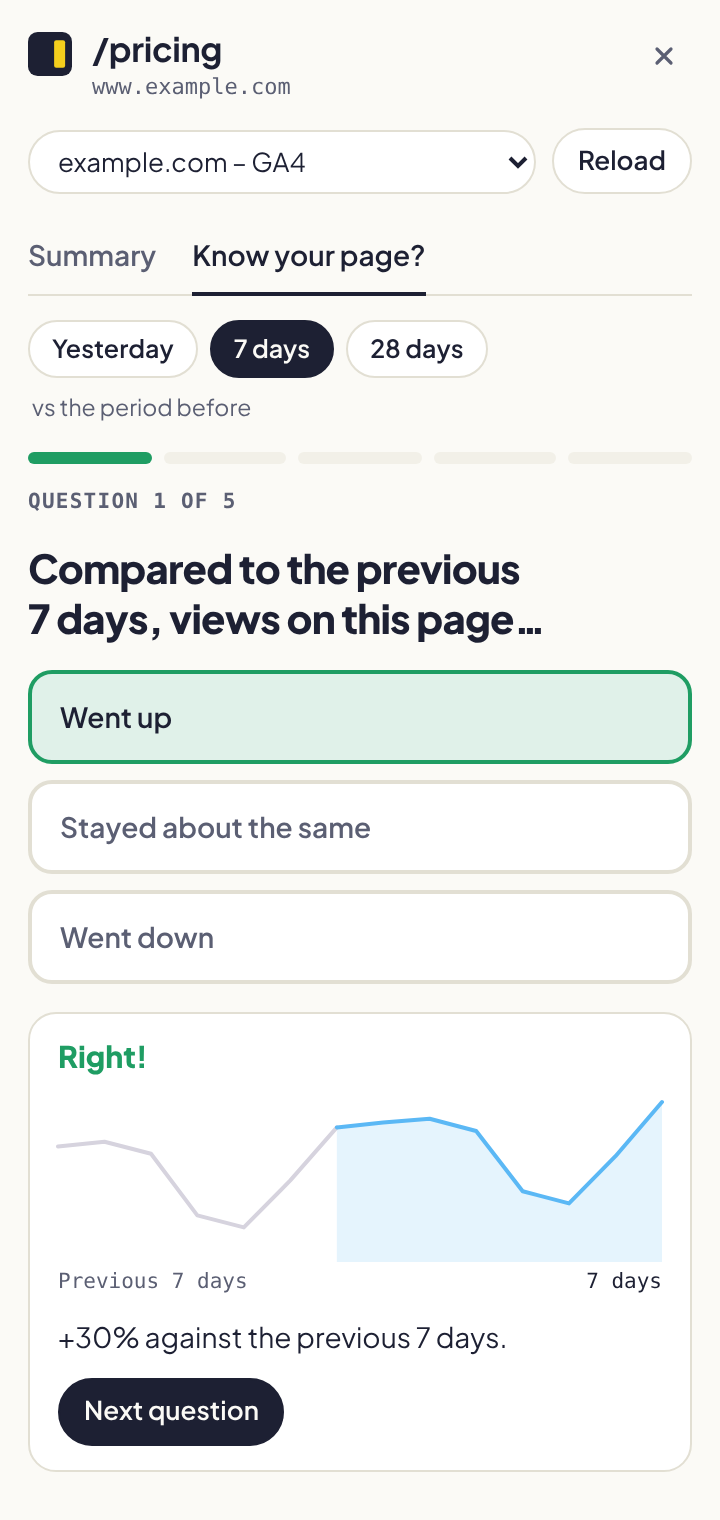
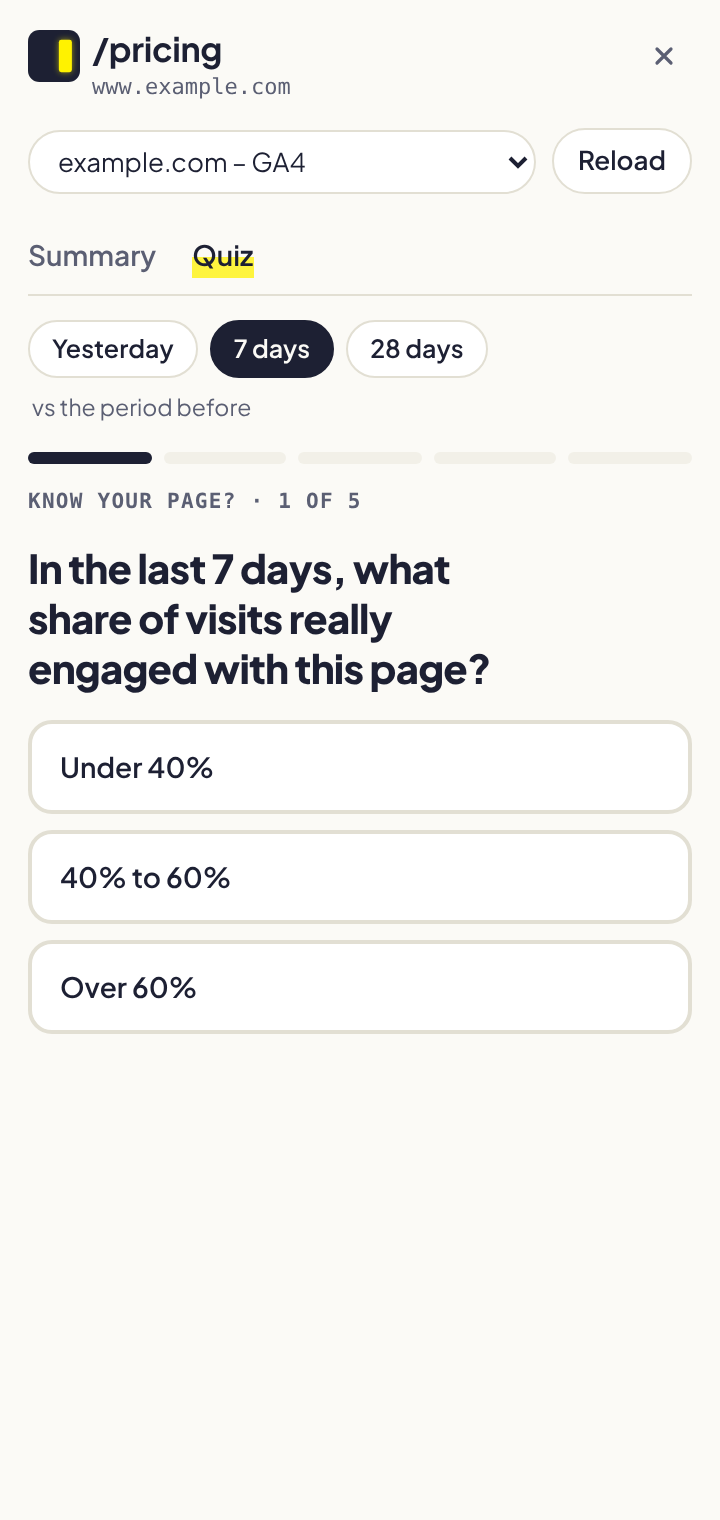
Site: browser hero, livelier quiz, corporate FAQ tone
Claude-Session: https://claude.ai/code/session_015jBukxV2aw35ko9dUCXjxA

diff --git a/index.html b/index.html
@@ -36,15 +36,18 @@
           <span class="line quiet">Your page. Your data.</span>
           <span class="line"><span class="hl c-alive">Side by side.</span></span>
         </h1>
-        <p class="lede">SideNote Analytics brings the page's GA4 data into view—views, users, traffic sources and more, compared with the previous period. All beside the page you're already on.</p>
+        <p class="lede">SideNote Analytics brings the page's GA4 data into view—sessions, users, traffic sources and more, compared with the previous period. All beside the page you're already on.</p>
         <div class="cta">
           <span class="btn primary is-soon" aria-disabled="true">Coming soon to the Chrome Web Store</span>
           <a class="btn ghost" href="#how">See how it works</a>
         </div>
         <p class="note">Free. Read-only. No servers or tracking.</p>
       </div>
-      <figure class="shot tall">
-        <img src="img/panel-summary.png" width="720" height="1780" alt="The SideNote Analytics panel for a pricing page: 2,600 views, up 30% on the previous 28 days, with a trend line, time per view against the site average, a channel ring and a device ring.">
+      <figure class="browser">
+        <picture>
+          <source srcset="img/hero-browser.webp" type="image/webp">
+          <img src="img/hero-browser.png" width="1812" height="1152" alt="A Chrome window showing a pricing page, with the SideNote Analytics side panel open beside it: 2,600 views on /pricing, up 30% on the previous 28 days.">
+        </picture>
       </figure>
     </div>
   </section>
@@ -82,17 +85,19 @@
     </div>
   </section>
 
-  <section class="block" id="quiz">
+  <section class="block quiz-block" id="quiz">
+    <div class="qmarks" aria-hidden="true"><span>?</span><span>?</span><span>?</span><span>?</span><span>?</span><span>?</span></div>
     <div class="wrap split reverse">
       <div class="copy">
-        <p class="eyebrow">Know your page?</p>
+        <p class="eyebrow">Quiz · Know your page?</p>
         <h2>How well do you know <span class="hl c-good">your own numbers?</span></h2>
         <p class="intro">Do most visitors use mobile or desktop? Is traffic up or down? Does organic search bring more visitors than direct?</p>
         <p class="intro">Test your instincts with five questions based on your page's actual data. Each answer comes with a chart, so you can see how your guess compares.</p>
         <p class="intro">Beat your previous score or challenge a teammate. The shared message never includes your site's name.</p>
+        <div class="qtags"><span class="c-alive">5 questions</span><span class="c-read">Your real data</span><span class="c-change">Beat your score</span></div>
       </div>
       <figure class="shot">
-        <img src="img/panel-quiz.png" width="720" height="1520" alt="A quiz question: compared to the previous 7 days, views on this page went up, stayed about the same or went down. The answer Went up is marked right, with a chart showing +30%.">
+        <img src="img/panel-quiz.png" width="720" height="1520" alt="The Quiz tab: question 1 of 5 asks what share of visits in the last 7 days really engaged with this page, with three answers to choose from.">
       </figure>
     </div>
   </section>
@@ -132,7 +137,7 @@
       <div class="faq">
         <details open>
           <summary>Can SideNote access my Analytics data?</summary>
-          <p>The extension needs read-only access to display your reports. That access is used within your browser. No Analytics data is sent to SideNote's developer or to an external server.</p>
+          <p>The extension needs read-only access to display your reports. That access is used only within your browser. No Analytics data is sent to any external server.</p>
         </details>
         <details>
           <summary>Why does Google ask for permission to see my Analytics data?</summary>
@@ -148,7 +153,7 @@
         </details>
         <details>
           <summary>Why is it free?</summary>
-          <p>SideNote Analytics is a free portfolio project. There are no paid plans, trials or ads.</p>
+          <p>SideNote Analytics runs entirely in your browser, with no servers or infrastructure behind it. That keeps it free to use, with no paid plans, trials or ads.</p>
         </details>
       </div>
     </div>

diff --git a/site.css b/site.css
@@ -75,8 +75,11 @@ nav.links a.go:hover { background: var(--accent); color: var(--accent-ink); }
 @media (max-width: 560px) { nav.links a { padding: 8px 14px; font-size: 15px; } }
 
 .hero { padding-block: 40px 56px; }
-.hero .wrap { display: grid; grid-template-columns: minmax(0, 1fr) 340px; gap: 48px; align-items: center; }
-@media (max-width: 900px) { .hero .wrap { grid-template-columns: minmax(0, 1fr); gap: 40px; } }
+.hero .wrap { display: grid; grid-template-columns: minmax(0, 1fr); gap: 44px; }
+.hero-copy { max-width: 760px; }
+.browser { margin: 0 -18px; }
+.browser img { width: 100%; }
+@media (max-width: 600px) { .browser { margin: 0 -10px; } }
 .hero h1 { margin-top: 18px; font-size: clamp(38px, 5vw, 60px); font-weight: 800; }
 .hero h1 .line { display: block; }
 .hero h1 .quiet { color: var(--ink-soft); font-weight: 600; }
@@ -161,3 +164,17 @@ footer p { color: var(--ink-soft); font-size: 15px; }
 .chips { margin-top: 22px; display: flex; flex-wrap: wrap; gap: 8px; }
 .chips span { padding: 6px 14px; border-radius: 999px; background: var(--paper-2); font-size: 14.5px; font-weight: 600; }
 .chips span b { color: var(--ink-soft); font-weight: 500; }
+
+/* the quiz: the playful corner of the page */
+.quiz-block { position: relative; overflow: hidden; background: color-mix(in srgb, var(--hl-good) 13%, var(--paper)); }
+.quiz-block .wrap { position: relative; }
+.qmarks span { position: absolute; font-weight: 800; line-height: 1; color: var(--hl-good); opacity: .22; pointer-events: none; user-select: none; }
+.qmarks span:nth-child(1) { font-size: 220px; top: -30px; right: 4%; transform: rotate(14deg); }
+.qmarks span:nth-child(2) { font-size: 120px; bottom: 6%; left: 2%; transform: rotate(-18deg); color: var(--hl-alive); opacity: .35; }
+.qmarks span:nth-child(3) { font-size: 80px; top: 18%; left: 44%; transform: rotate(8deg); color: var(--hl-read); }
+.qmarks span:nth-child(4) { font-size: 150px; bottom: -40px; right: 30%; transform: rotate(-6deg); color: var(--hl-change); opacity: .18; }
+.qmarks span:nth-child(5) { font-size: 64px; top: 8%; left: 8%; transform: rotate(22deg); color: var(--hl-measure); }
+.qmarks span:nth-child(6) { font-size: 96px; top: 52%; right: 2%; transform: rotate(-12deg); color: var(--hl-alive); opacity: .3; }
+.quiz-block .shot { position: relative; transform: rotate(-2deg); }
+.qtags { margin-top: 22px; display: flex; gap: 8px; flex-wrap: wrap; }
+.qtags span { padding: 7px 14px; border-radius: 999px; font-weight: 700; font-size: 14.5px; background: color-mix(in srgb, var(--c) 45%, var(--panel)); }
